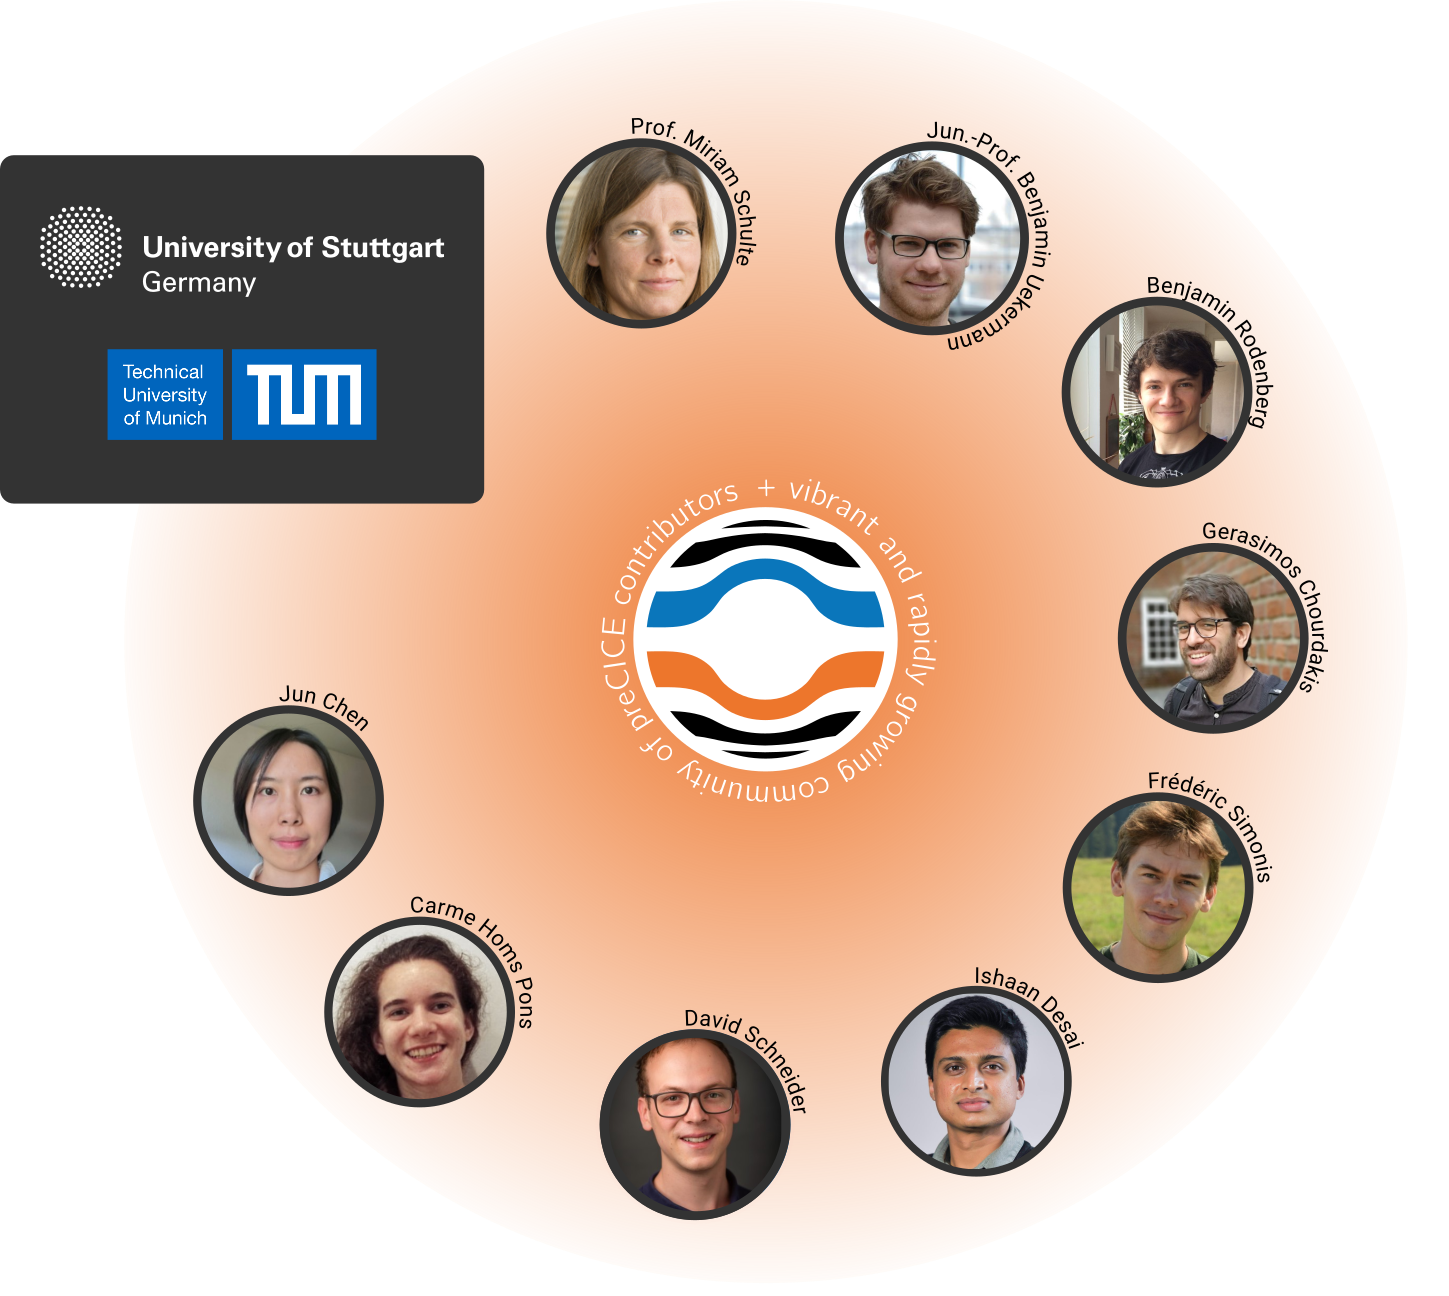
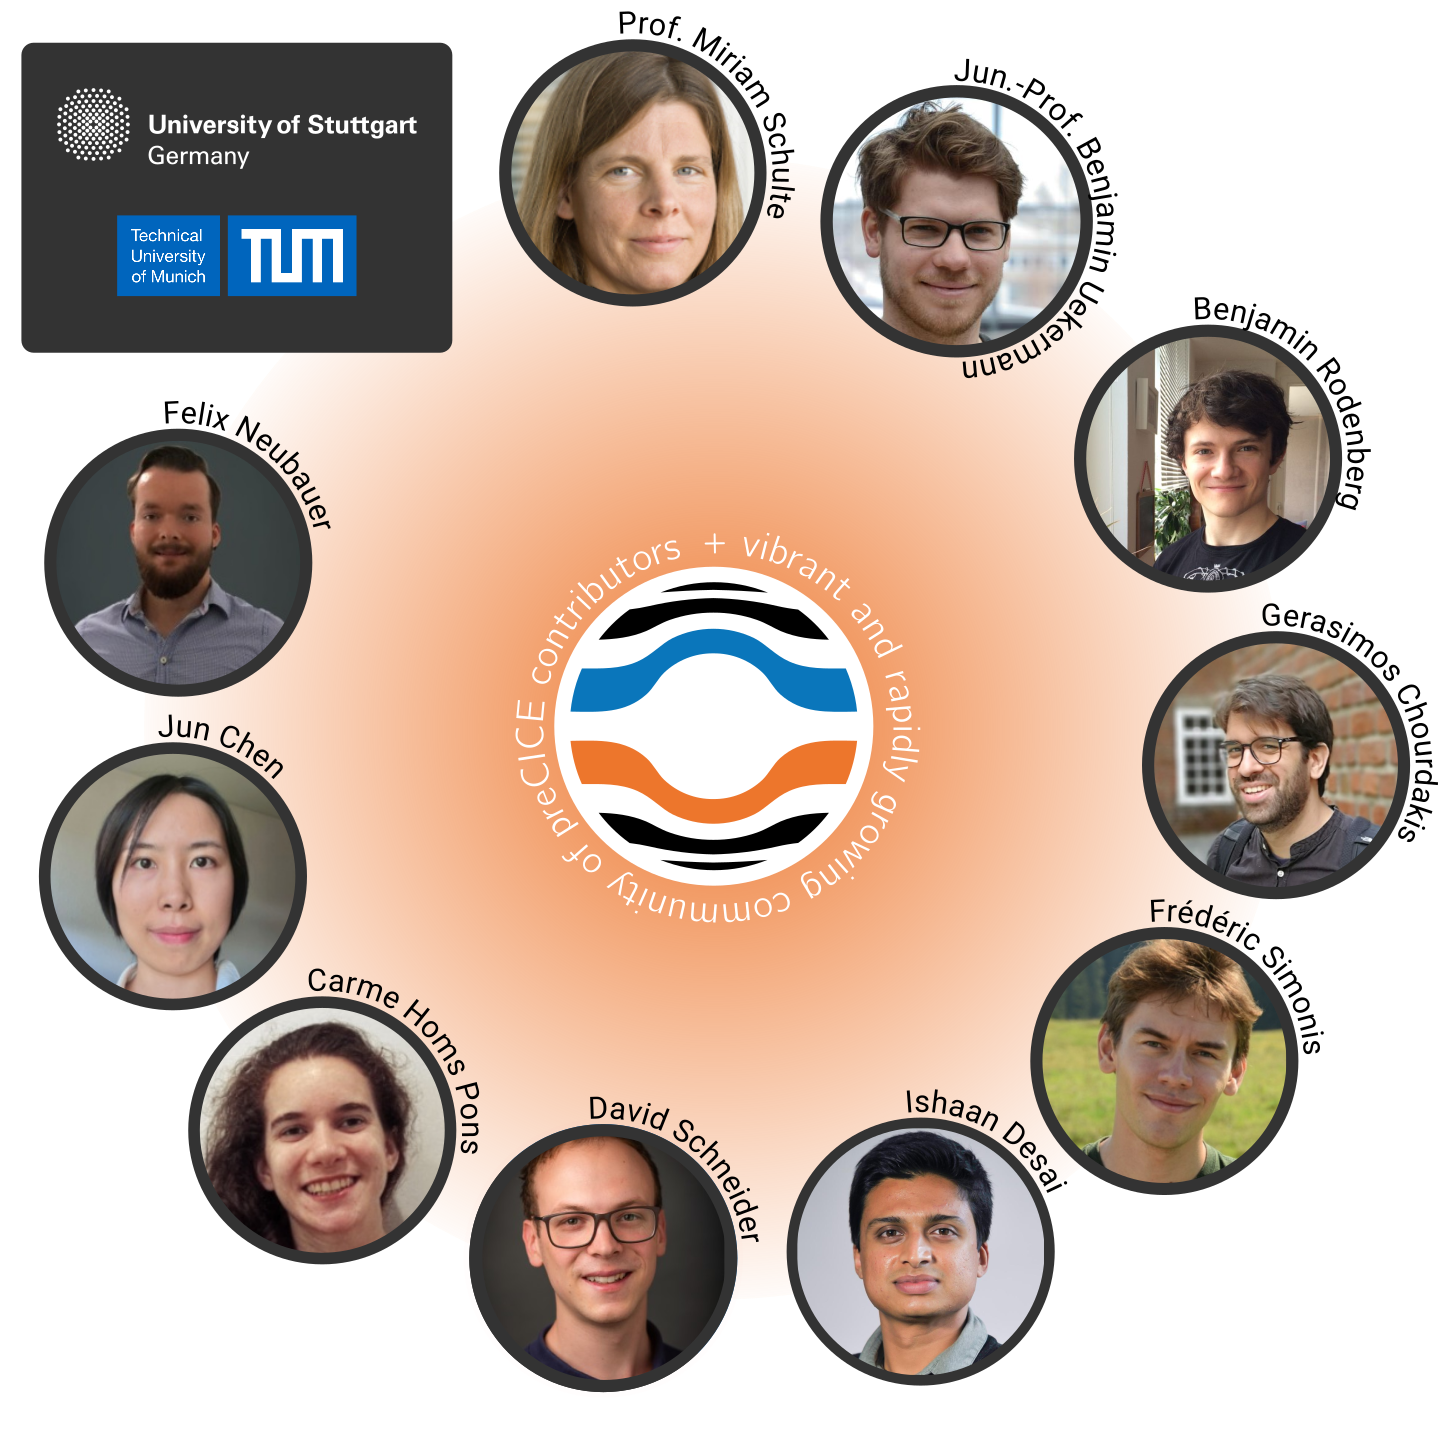
deploy: 33bfc77cf2666989986c00dfe56270779f456e17

diff --git a/community-contributors.html b/community-contributors.html
@@ -820,6 +820,24 @@ $('#toc').on('click', 'a', function() {
   <li>
     <div class="devlist-img">
       
+      <img src="images/developer/Felix_Neubauer.jpg" alt="Portrait" />
+      
+    </div>
+    <div class="devlist-left">
+      <p>
+        <strong>Felix Neubauer</strong><br />
+        University of Stuttgart
+      </p>
+    </div>
+    <ul class="devlist-right">
+      <li><a href="https://www.ipvs.uni-stuttgart.de/de/institut/team/Neubauer-00007/" alt="See the institutional website" class="no-icon"><i class="fas fa-university"></i></a></li>
+      <li><a href="https://github.com/Logende" alt="See the Github profile" class="no-icon"><i class="fab fa-github"></i></a></li>
+    </ul>
+  </li>
+  
+  <li>
+    <div class="devlist-img">
+      
       <img src="images/developer/Benjamin_Rueth.jpg" alt="Portrait" />
       
     </div>
